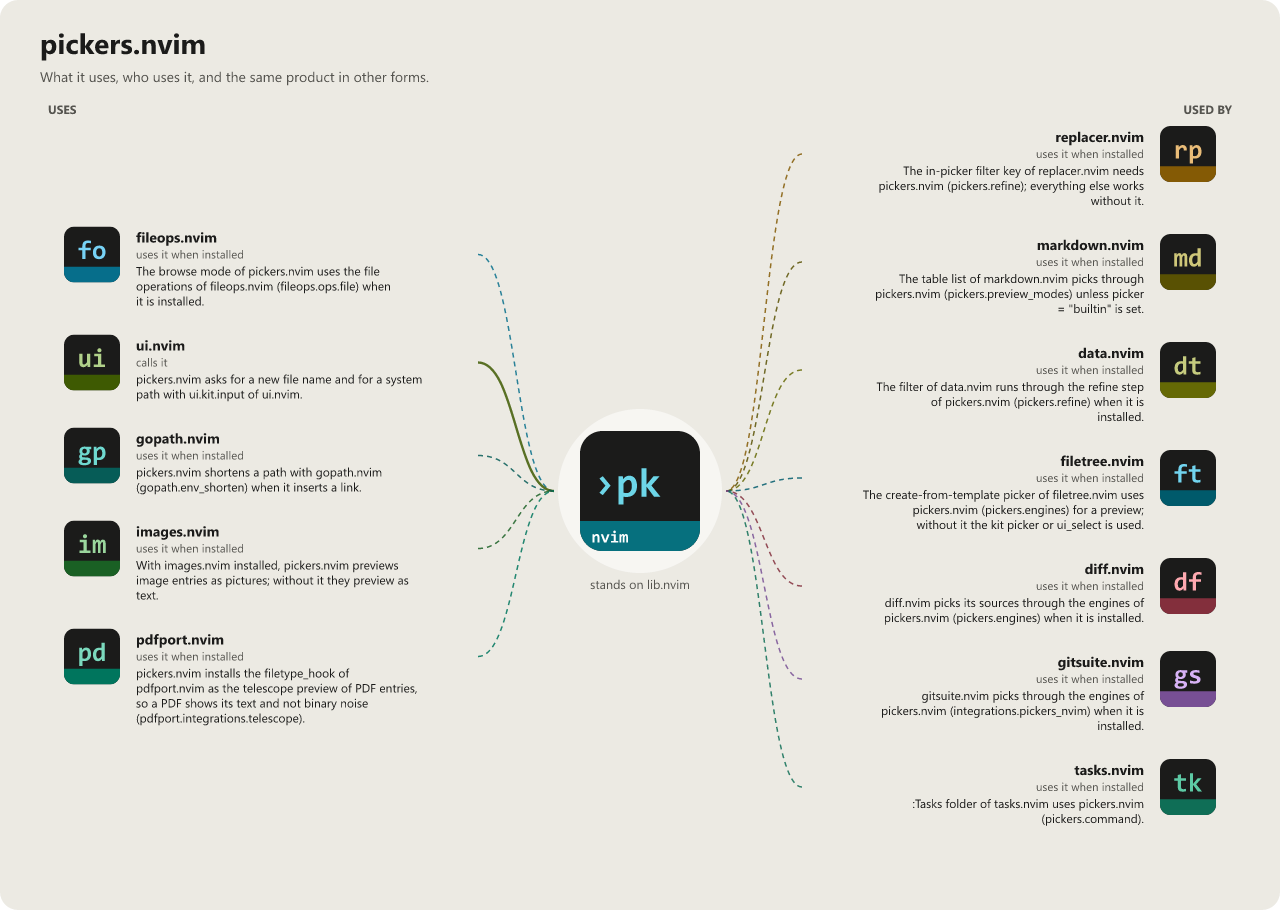
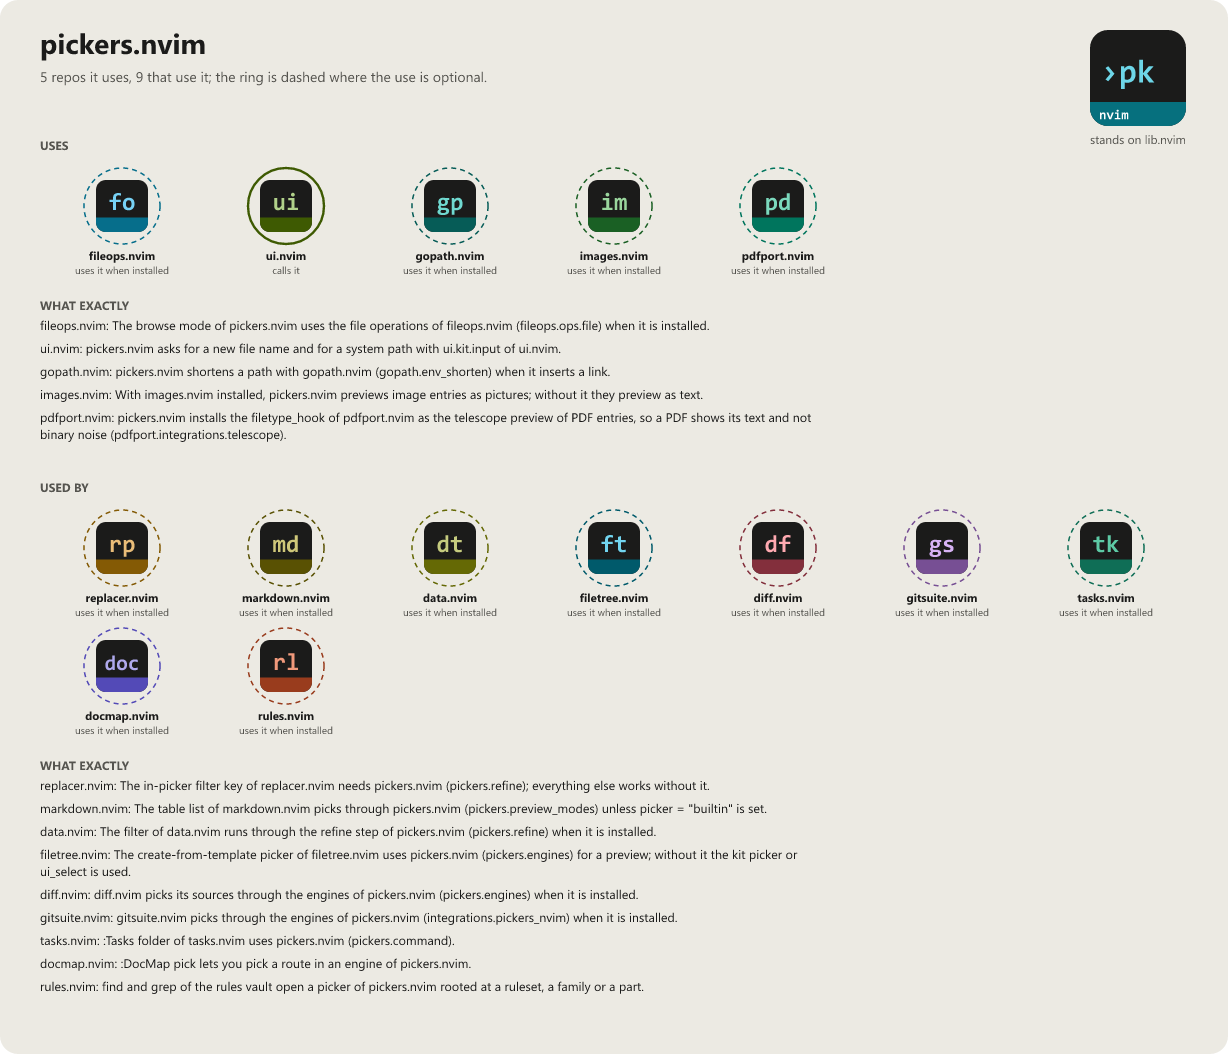
docs(graphs): connections through optional loaders, programs, HTTP and files
The connections picture and the README block now also show what the require rule did not see: optional loads through soft_require, lib.nvim.require.safe and package.loaded, and connections over programs, HTTP and files, each with a line of code as evidence. Written by the app-icons tool of the workshop (graphs.mjs install-repos).

diff --git a/README.md b/README.md
@@ -116,9 +116,11 @@ pickers.nvim is released under the [MIT License](https://opensource.org/licenses
 
 - [data.nvim](https://github.com/WKDSteve/data.nvim): The filter of data.nvim runs through the refine step of pickers.nvim (`pickers.refine`) when it is installed. ([picture](assets/graphs/pair/data.nvim--pickers.nvim.png))
 - [diff.nvim](https://github.com/WKDSteve/diff.nvim): diff.nvim picks its sources through the engines of pickers.nvim (`pickers.engines`) when it is installed. ([picture](assets/graphs/pair/diff.nvim--pickers.nvim.png))
+- [docmap.nvim](https://github.com/WKDSteve/docmap.nvim): `:DocMap pick` lets you pick a route in an engine of pickers.nvim. ([picture](assets/graphs/pair/docmap.nvim--pickers.nvim.png))
 - [filetree.nvim](https://github.com/WKDSteve/filetree.nvim): The create-from-template picker of filetree.nvim uses pickers.nvim (`pickers.engines`) for a preview; without it the kit picker or `ui_select` is used. ([picture](assets/graphs/pair/filetree.nvim--pickers.nvim.png))
 - [gitsuite.nvim](https://github.com/WKDSteve/gitsuite.nvim): gitsuite.nvim picks through the engines of pickers.nvim (`integrations.pickers_nvim`) when it is installed. ([picture](assets/graphs/pair/gitsuite.nvim--pickers.nvim.png))
 - [markdown.nvim](https://github.com/WKDSteve/markdown.nvim): The table list of markdown.nvim picks through pickers.nvim (`pickers.preview_modes`) unless `picker = "builtin"` is set. ([picture](assets/graphs/pair/markdown.nvim--pickers.nvim.png))
 - [replacer.nvim](https://github.com/WKDSteve/replacer.nvim): The in-picker `filter` key of replacer.nvim needs pickers.nvim (`pickers.refine`); everything else works without it. ([picture](assets/graphs/pair/replacer.nvim--pickers.nvim.png))
+- [rules.nvim](https://github.com/WKDSteve/rules.nvim): `find` and `grep` of the rules vault open a picker of pickers.nvim rooted at a ruleset, a family or a part. ([picture](assets/graphs/pair/rules.nvim--pickers.nvim.png))
 - [tasks.nvim](https://github.com/WKDSteve/tasks.nvim): `:Tasks folder` of tasks.nvim uses pickers.nvim (`pickers.command`). ([picture](assets/graphs/pair/tasks.nvim--pickers.nvim.png))
 <!-- connections:end -->
